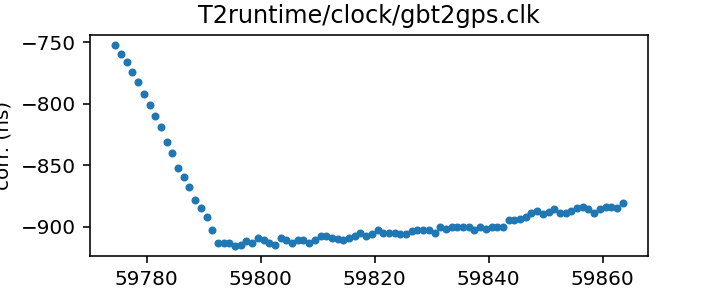
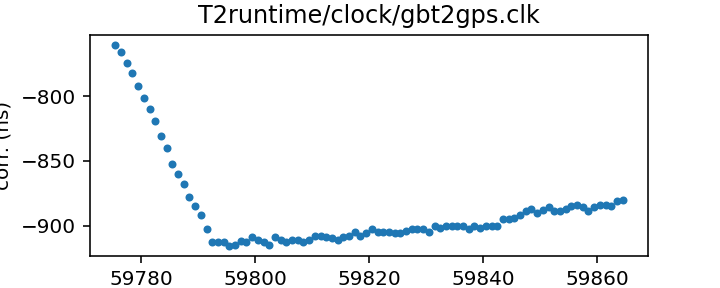
Routine gh-pages update from Github action Thu Oct 13 20:43:05 UTC 2022

diff --git a/status.md b/status.md
@@ -13,17 +13,17 @@ name of each clock file links to a page with more details.
 
 | Name | File | Corrections start | Corrections end | Last check date | Last check result 
 |:--- |:--- | --- | --- | --- |:--- 
-| [GPS to UTC](T2runtime/clock/gps2utc.clk.html) | `T2runtime/clock/gps2utc.clk` | 1993-01-01 MJD 48988.0 | 2022-09-27 MJD 59849.0 | 2022-10-12 | Unchanged 
-| [GPS to UTC (Combined Clock)](T2runtime/clock/gps2utc_cc.clk.html) | `T2runtime/clock/gps2utc_cc.clk` | 1993-01-01 MJD 48988.0 | 2022-09-27 MJD 59849.0 | 2022-10-12 | Unchanged 
-| [GPS to UTC (Corrected)](T2runtime/clock/gps2utc_c0p.clk.html) | `T2runtime/clock/gps2utc_c0p.clk` | 2010-12-29 MJD 55559.0 | 2022-09-27 MJD 59849.0 | 2022-10-12 | Unchanged 
-| [GBT](tempo/clock/time_gbt.dat.html) | `tempo/clock/time_gbt.dat` | 2000-12-31 MJD 51909.5 | 2022-10-11 MJD 59863.5 | 2022-10-12 | Updated 
-| [GBT (TEMPO2 converted from TEMPO)](T2runtime/clock/gbt2gps.clk.html) | `T2runtime/clock/gbt2gps.clk` | 2000-12-31 MJD 51909.5 | 2022-10-11 MJD 59863.5 | 2022-10-12 | Updated 
+| [GPS to UTC](T2runtime/clock/gps2utc.clk.html) | `T2runtime/clock/gps2utc.clk` | 1993-01-01 MJD 48988.0 | 2022-09-27 MJD 59849.0 | 2022-10-13 | Unchanged 
+| [GPS to UTC (Combined Clock)](T2runtime/clock/gps2utc_cc.clk.html) | `T2runtime/clock/gps2utc_cc.clk` | 1993-01-01 MJD 48988.0 | 2022-09-27 MJD 59849.0 | 2022-10-13 | Unchanged 
+| [GPS to UTC (Corrected)](T2runtime/clock/gps2utc_c0p.clk.html) | `T2runtime/clock/gps2utc_c0p.clk` | 2010-12-29 MJD 55559.0 | 2022-09-27 MJD 59849.0 | 2022-10-13 | Unchanged 
+| [GBT](tempo/clock/time_gbt.dat.html) | `tempo/clock/time_gbt.dat` | 2000-12-31 MJD 51909.5 | 2022-10-12 MJD 59864.5 | 2022-10-13 | Updated 
+| [GBT (TEMPO2 converted from TEMPO)](T2runtime/clock/gbt2gps.clk.html) | `T2runtime/clock/gbt2gps.clk` | 2000-12-31 MJD 51909.5 | 2022-10-12 MJD 59864.5 | 2022-10-13 | Updated 
 | [Jodrell Bank](T2runtime/clock/jb2gps.clk.html) | `T2runtime/clock/jb2gps.clk` | 2006-10-13 MJD 54021.4 | 2021-11-03 MJD 59521.0 | 2022-10-12 | Unchanged 
 | [Jodrell Bank Roach](T2runtime/clock/jbroach2jb.clk.html) | `T2runtime/clock/jbroach2jb.clk` | 2006-10-13 MJD 54021.4 | 2018-03-20 MJD 58197.6 | 2022-10-12 | Unchanged 
 | [Jodrell Bank DFB](T2runtime/clock/jbdfb2jb.clk.html) | `T2runtime/clock/jbdfb2jb.clk` | 2006-10-13 MJD 54021.4 | 2017-05-11 MJD 57884.0 | 2022-10-12 | Unchanged 
 | [Meerkat (observatory)](T2runtime/clock/mk2utc_observatory.clk.html) | `T2runtime/clock/mk2utc_observatory.clk` | 2019-01-01 MJD 58484.0 | 2022-09-21 MJD 59844.0 | 2022-10-10 | Updated 
-| [Leap seconds](tempo/clock/leap.sec.html) | `tempo/clock/leap.sec` | 1972-07-01 MJD 41499.0 | 2017-01-01 MJD 57754.0 | 2022-10-12 | Unchanged 
-| [UT1 table](tempo/clock/ut1.dat.html) | `tempo/clock/ut1.dat` | 1973-01-02 MJD 41684.0 | 2023-10-14 MJD 60231.0 | 2022-10-12 | Unchanged 
+| [Leap seconds](tempo/clock/leap.sec.html) | `tempo/clock/leap.sec` | 1972-07-01 MJD 41499.0 | 2017-01-01 MJD 57754.0 | 2022-10-13 | Unchanged 
+| [UT1 table](tempo/clock/ut1.dat.html) | `tempo/clock/ut1.dat` | 1973-01-02 MJD 41684.0 | 2023-10-21 MJD 60238.0 | 2022-10-13 | Updated 
 
 
 
@@ -63,21 +63,21 @@ name of each clock file links to a page with more details.
 
 | Name | File | Corrections start | Corrections end | Last check date | Last check result 
 |:--- |:--- | --- | --- | --- |:--- 
-| [GPS to UTC (TEMPO2)](T2runtime/clock/gps2utc_tempo2.clk.html) | `T2runtime/clock/gps2utc_tempo2.clk` | 1996-03-27 MJD 50169.0 | 2020-10-27 MJD 59149.0 | 2022-10-06 | Unchanged 
+| [GPS to UTC (TEMPO2)](T2runtime/clock/gps2utc_tempo2.clk.html) | `T2runtime/clock/gps2utc_tempo2.clk` | 1996-03-27 MJD 50169.0 | 2020-10-27 MJD 59149.0 | 2022-10-13 | Unchanged 
 | [GBT (TEMPO2)](T2runtime/clock/gbt2gps_tempo2.clk.html) | `T2runtime/clock/gbt2gps_tempo2.clk` | 2000-12-31 MJD 51909.5 | 2020-02-25 MJD 58904.5 | 2022-10-10 | Unchanged 
-| [Jodrell Bank (TEMPO)](tempo/clock/time_jb.dat.html) | `tempo/clock/time_jb.dat` | 2006-10-13 MJD 54021.4 | 2019-05-13 MJD 58616.2 | 2022-10-06 | Unchanged 
-| [VLA](tempo/clock/time_vla.dat.html) | `tempo/clock/time_vla.dat` | 1990-10-27 MJD 48191.2 | 2021-03-07 MJD 59280.5 | 2022-10-06 | **Failed to download** 
+| [Jodrell Bank (TEMPO)](tempo/clock/time_jb.dat.html) | `tempo/clock/time_jb.dat` | 2006-10-13 MJD 54021.4 | 2019-05-13 MJD 58616.2 | 2022-10-13 | Unchanged 
+| [VLA](tempo/clock/time_vla.dat.html) | `tempo/clock/time_vla.dat` | 1990-10-27 MJD 48191.2 | 2021-03-07 MJD 59280.5 | 2022-10-13 | **Failed to download** 
 | [VLA (TEMPO2)](T2runtime/clock/vla2gps.clk.html) | `T2runtime/clock/vla2gps.clk` | 2015-02-01 MJD 57054.6 | 2021-03-07 MJD 59280.5 | 2022-10-12 | Unchanged 
 | [VLA to NIST](T2runtime/clock/vla2nist.clk.html) | `T2runtime/clock/vla2nist.clk` | 1990-10-27 MJD 48191.2 | 1993-11-13 MJD 49304.0 | 2022-10-12 | Unchanged 
-| [FAST](tempo/clock/time_fast.dat.html) | `tempo/clock/time_fast.dat` | 2017-07-26 MJD 57960.4 | 2019-09-18 MJD 58744.0 | 2022-10-06 | **Failed to download** 
-| [WSRT](T2runtime/clock/wsrt2gps.clk.html) | `T2runtime/clock/wsrt2gps.clk` | 1999-01-01 MJD 51179.5 | 2015-06-29 MJD 57202.1 | 2022-10-06 | Unchanged 
-| [WSRT (TEMPO)](tempo/clock/time_wsrt.dat.html) | `tempo/clock/time_wsrt.dat` | 1987-07-24 MJD 47000.0 | 2007-12-24 MJD 54458.0 | 2022-10-06 | **Validation failed** 
+| [FAST](tempo/clock/time_fast.dat.html) | `tempo/clock/time_fast.dat` | 2017-07-26 MJD 57960.4 | 2019-09-18 MJD 58744.0 | 2022-10-13 | **Failed to download** 
+| [WSRT](T2runtime/clock/wsrt2gps.clk.html) | `T2runtime/clock/wsrt2gps.clk` | 1999-01-01 MJD 51179.5 | 2015-06-29 MJD 57202.1 | 2022-10-13 | Unchanged 
+| [WSRT (TEMPO)](tempo/clock/time_wsrt.dat.html) | `tempo/clock/time_wsrt.dat` | 1987-07-24 MJD 47000.0 | 2007-12-24 MJD 54458.0 | 2022-10-13 | **Validation failed** 
 | [Parkes](T2runtime/clock/pks2gps.clk.html) | `T2runtime/clock/pks2gps.clk` | 1858-11-17 MJD 0.0 | 2019-07-31 MJD 58695.4 | 2022-10-12 | Unchanged 
-| [Parkes (TEMPO)](tempo/clock/time_pks.dat.html) | `tempo/clock/time_pks.dat` | 1979-05-07 MJD 44000.0 | 2011-07-03 MJD 55745.8 | 2022-10-06 | **Validation failed** 
+| [Parkes (TEMPO)](tempo/clock/time_pks.dat.html) | `tempo/clock/time_pks.dat` | 1979-05-07 MJD 44000.0 | 2011-07-03 MJD 55745.8 | 2022-10-13 | **Validation failed** 
 | [SRT](T2runtime/clock/srt2gps.clk.html) | `T2runtime/clock/srt2gps.clk` | 2013-03-20 MJD 56371.0 | 2019-12-11 MJD 58828.0 | 2022-10-12 | Unchanged 
 | [Effelsberg](T2runtime/clock/eff2gps.clk.html) | `T2runtime/clock/eff2gps.clk` | 1993-11-29 MJD 49320.0 | 2015-06-22 MJD 57195.5 | 2022-10-12 | Unchanged 
 | [Effelsberg Asterix/PSRix](T2runtime/clock/effix2gps.clk.html) | `T2runtime/clock/effix2gps.clk` | 2011-01-01 MJD 55562.5 | 2021-03-21 MJD 59294.5 | 2022-10-12 | Unchanged 
-| [NUPPI](tempo/clock/time_nuppi.dat.html) | `tempo/clock/time_nuppi.dat` | 2005-03-07 MJD 53436.0 | 2015-11-08 MJD 57334.6 | 2022-10-06 | Unchanged 
+| [NUPPI](tempo/clock/time_nuppi.dat.html) | `tempo/clock/time_nuppi.dat` | 2005-03-07 MJD 53436.0 | 2015-11-08 MJD 57334.6 | 2022-10-13 | Unchanged 
 | [Meerkat (TEMPO2)](T2runtime/clock/mk2utc.clk.html) | `T2runtime/clock/mk2utc.clk` | 2019-01-01 MJD 58484.0 | 2021-02-22 MJD 59268.0 | 2022-10-12 | Unchanged 
 | [MOST](T2runtime/clock/mo2gps.clk.html) | `T2runtime/clock/mo2gps.clk` | 2003-12-27 MJD 53000.0 | 2018-09-06 MJD 58367.0 | 2022-10-12 | Unchanged 
 | [Nancay to obspm](T2runtime/clock/ncyobs2obspm.clk.html) | `T2runtime/clock/ncyobs2obspm.clk` | 1988-05-18 MJD 47299.6 | 2021-11-01 MJD 59519.6 | 2022-10-12 | Unchanged 

diff --git a/tempo/clock/time_pks.dat.md b/tempo/clock/time_pks.dat.md
@@ -19,12 +19,11 @@ in the same file, distinguished only by observatory code.
 | Clock file start | 1979-05-07 MJD 44000.0 |
 | Clock file end | 2011-07-03 MJD 55745.8 |
 | Update interval (days) | 7 |
-| Last update attempt | 2022-10-06 |
+| Last update attempt | 2022-10-13 |
 | Last update result | Validation failed |
 
 Log entries from the last few update attempts:
 ```
-2022-08-04 20:34:41.857 - Validation failed: Unable to read new version of tempo/clock/time_pks.dat: Clock file /tmp/astropy-download-1668-z0equg7z appears to be out of order
 2022-08-11 20:33:40.663 - Validation failed: Unable to read new version of tempo/clock/time_pks.dat: Clock file /tmp/astropy-download-1654-kb8uhgqd appears to be out of order
 2022-08-18 20:36:52.446 - Validation failed: Unable to read new version of tempo/clock/time_pks.dat: Clock file /tmp/astropy-download-1707-2tdw70nb appears to be out of order
 2022-08-25 20:34:57.712 - Validation failed: Unable to read new version of tempo/clock/time_pks.dat: Clock file /tmp/astropy-download-1692-lv4itl02 appears to be out of order
@@ -34,6 +33,7 @@ Log entries from the last few update attempts:
 2022-09-22 20:39:27.672 - Validation failed: Unable to read new version of tempo/clock/time_pks.dat: Clock file /tmp/astropy-download-1731-md2w727v appears to be out of order
 2022-09-29 20:43:08.532 - Validation failed: Unable to read new version of tempo/clock/time_pks.dat: Clock file /tmp/astropy-download-1670-yxq_zqy5 appears to be out of order
 2022-10-06 20:41:55.213 - Validation failed: Unable to read new version of tempo/clock/time_pks.dat: Clock file /tmp/astropy-download-1835-pho_7rq0 appears to be out of order
+2022-10-13 20:42:39.419 - Validation failed: Unable to read new version of tempo/clock/time_pks.dat: Clock file /tmp/astropy-download-1866-tj60jprm appears to be out of order
 ```
 [Full log](https://raw.githubusercontent.com/ipta/pulsar-clock-corrections/main/log/tempo/clock/time_pks.dat.log)
 

diff --git a/tempo/clock/time_wsrt.dat.md b/tempo/clock/time_wsrt.dat.md
@@ -19,12 +19,11 @@ should be the same information.
 | Clock file start | 1987-07-24 MJD 47000.0 |
 | Clock file end | 2007-12-24 MJD 54458.0 |
 | Update interval (days) | 7 |
-| Last update attempt | 2022-10-06 |
+| Last update attempt | 2022-10-13 |
 | Last update result | Validation failed |
 
 Log entries from the last few update attempts:
 ```
-2022-08-04 20:34:40.942 - Validation failed: Unable to read new version of tempo/clock/time_wsrt.dat: Clock file /tmp/astropy-download-1668-scc6b50b appears to be out of order
 2022-08-11 20:33:40.256 - Validation failed: Unable to read new version of tempo/clock/time_wsrt.dat: Clock file /tmp/astropy-download-1654-l2sd24rf appears to be out of order
 2022-08-18 20:36:51.805 - Validation failed: Unable to read new version of tempo/clock/time_wsrt.dat: Clock file /tmp/astropy-download-1707-xtq_0u1k appears to be out of order
 2022-08-25 20:34:57.286 - Validation failed: Unable to read new version of tempo/clock/time_wsrt.dat: Clock file /tmp/astropy-download-1692-30kr9mtu appears to be out of order
@@ -34,6 +33,7 @@ Log entries from the last few update attempts:
 2022-09-22 20:39:27.254 - Validation failed: Unable to read new version of tempo/clock/time_wsrt.dat: Clock file /tmp/astropy-download-1731-9z7agicr appears to be out of order
 2022-09-29 20:43:08.152 - Validation failed: Unable to read new version of tempo/clock/time_wsrt.dat: Clock file /tmp/astropy-download-1670-r1ox93xv appears to be out of order
 2022-10-06 20:41:54.543 - Validation failed: Unable to read new version of tempo/clock/time_wsrt.dat: Clock file /tmp/astropy-download-1835-gtjyjp4z appears to be out of order
+2022-10-13 20:42:38.566 - Validation failed: Unable to read new version of tempo/clock/time_wsrt.dat: Clock file /tmp/astropy-download-1866-b4aq0tiw appears to be out of order
 ```
 [Full log](https://raw.githubusercontent.com/ipta/pulsar-clock-corrections/main/log/tempo/clock/time_wsrt.dat.log)
 

diff --git a/T2runtime/clock/gbt2gps.clk.md b/T2runtime/clock/gbt2gps.clk.md
@@ -23,14 +23,13 @@ If questions arise about the conversion, contact Anne Archibald
 | Format | tempo2 |
 | Bogus last correction | False |
 | Clock file start | 2000-12-31 MJD 51909.5 |
-| Clock file end | 2022-10-11 MJD 59863.5 |
+| Clock file end | 2022-10-12 MJD 59864.5 |
 | Update interval (days) | 1 |
-| Last update attempt | 2022-10-12 |
+| Last update attempt | 2022-10-13 |
 | Last update result | Updated |
 
 Log entries from the last few update attempts:
 ```
-2022-10-03 20:42:12.939 - Updated
 2022-10-04 20:43:59.417 - Updated
 2022-10-05 20:42:13.766 - Updated
 2022-10-06 20:41:51.390 - Updated
@@ -40,12 +39,13 @@ Log entries from the last few update attempts:
 2022-10-10 20:41:53.295 - Updated
 2022-10-11 20:43:28.314 - Updated
 2022-10-12 20:43:13.750 - Updated
+2022-10-13 20:42:36.560 - Updated
 ```
 [Full log](https://raw.githubusercontent.com/ipta/pulsar-clock-corrections/main/log/T2runtime/clock/gbt2gps.clk.log)
 
 Leading comments from clock file:
 
-    # This file was automatically converted from tempo/clock/time_gbt.dat on 2022-10-12 20:43:13.652
+    # This file was automatically converted from tempo/clock/time_gbt.dat on 2022-10-13 20:42:36.490
 
 
 

diff --git a/tempo/clock/time_vla.dat.md b/tempo/clock/time_vla.dat.md
@@ -17,12 +17,11 @@ This file is pulled from the PINT repository and may not be fully up-to-date.
 | Clock file start | 1990-10-27 MJD 48191.2 |
 | Clock file end | 2021-03-07 MJD 59280.5 |
 | Update interval (days) | 7 |
-| Last update attempt | 2022-10-06 |
+| Last update attempt | 2022-10-13 |
 | Last update result | Failed to download |
 
 Log entries from the last few update attempts:
 ```
-2022-08-04 20:34:40.227 - Failed to download: HTTP Error 404: Not Found
 2022-08-11 20:33:39.364 - Failed to download: HTTP Error 404: Not Found
 2022-08-18 20:36:50.640 - Failed to download: HTTP Error 404: Not Found
 2022-08-25 20:34:56.643 - Failed to download: HTTP Error 404: Not Found
@@ -32,6 +31,7 @@ Log entries from the last few update attempts:
 2022-09-22 20:39:26.359 - Failed to download: HTTP Error 404: Not Found
 2022-09-29 20:43:07.208 - Failed to download: HTTP Error 404: Not Found
 2022-10-06 20:41:52.923 - Failed to download: HTTP Error 404: Not Found
+2022-10-13 20:42:37.999 - Failed to download: HTTP Error 404: Not Found
 ```
 [Full log](https://raw.githubusercontent.com/ipta/pulsar-clock-corrections/main/log/tempo/clock/time_vla.dat.log)
 

diff --git a/tempo/clock/time_fast.dat.md b/tempo/clock/time_fast.dat.md
@@ -24,12 +24,11 @@ to contact is 缪晨晨 <miaocc@bao.ac.cn>, Chenchen Miao.
 | Clock file start | 2017-07-26 MJD 57960.4 |
 | Clock file end | 2019-09-18 MJD 58744.0 |
 | Update interval (days) | 7 |
-| Last update attempt | 2022-10-06 |
+| Last update attempt | 2022-10-13 |
 | Last update result | Failed to download |
 
 Log entries from the last few update attempts:
 ```
-2022-08-04 20:34:40.348 - Failed to download: HTTP Error 404: Not Found
 2022-08-11 20:33:39.507 - Failed to download: HTTP Error 404: Not Found
 2022-08-18 20:36:50.783 - Failed to download: HTTP Error 404: Not Found
 2022-08-25 20:34:56.745 - Failed to download: HTTP Error 404: Not Found
@@ -39,6 +38,7 @@ Log entries from the last few update attempts:
 2022-09-22 20:39:26.512 - Failed to download: HTTP Error 404: Not Found
 2022-09-29 20:43:07.428 - Failed to download: HTTP Error 404: Not Found
 2022-10-06 20:41:53.004 - Failed to download: HTTP Error 404: Not Found
+2022-10-13 20:42:38.077 - Failed to download: HTTP Error 404: Not Found
 ```
 [Full log](https://raw.githubusercontent.com/ipta/pulsar-clock-corrections/main/log/tempo/clock/time_fast.dat.log)
 

diff --git a/tempo/clock/ut1.dat.md b/tempo/clock/ut1.dat.md
@@ -28,14 +28,13 @@ If there are any questions, contact Anne Archibald
 | File | `tempo/clock/ut1.dat` |
 | Authority | observatory |
 | File start | 1973-01-02 MJD 41684.0 |
-| File end | 2023-10-14 MJD 60231.0 |
+| File end | 2023-10-21 MJD 60238.0 |
 | Update interval (days) | 0 |
-| Last update attempt | 2022-10-12 |
-| Last update result | Unchanged |
+| Last update attempt | 2022-10-13 |
+| Last update result | Updated |
 
 Log entries from the last few update attempts:
 ```
-2022-10-03 20:42:32.045 - Unchanged
 2022-10-04 20:44:07.154 - Unchanged
 2022-10-05 20:42:33.854 - Unchanged
 2022-10-06 20:42:03.973 - Updated
@@ -45,5 +44,6 @@ Log entries from the last few update attempts:
 2022-10-10 20:42:07.870 - Unchanged
 2022-10-11 20:43:36.466 - Unchanged
 2022-10-12 20:43:33.565 - Unchanged
+2022-10-13 20:42:47.532 - Updated
 ```
 [Full log](https://raw.githubusercontent.com/ipta/pulsar-clock-corrections/main/log/tempo/clock/ut1.dat.log)

diff --git a/tempo/clock/time_gbt.dat.md b/tempo/clock/time_gbt.dat.md
@@ -18,14 +18,13 @@ If questions arise, contact Ryan S. Lynch <rlynch@nrao.edu>.
 | Format | tempo |
 | Bogus last correction | False |
 | Clock file start | 2000-12-31 MJD 51909.5 |
-| Clock file end | 2022-10-11 MJD 59863.5 |
+| Clock file end | 2022-10-12 MJD 59864.5 |
 | Update interval (days) | 1 |
-| Last update attempt | 2022-10-12 |
+| Last update attempt | 2022-10-13 |
 | Last update result | Updated |
 
 Log entries from the last few update attempts:
 ```
-2022-10-03 20:42:12.682 - Updated
 2022-10-04 20:43:59.322 - Updated
 2022-10-05 20:42:13.674 - Updated
 2022-10-06 20:41:51.320 - Updated
@@ -35,6 +34,7 @@ Log entries from the last few update attempts:
 2022-10-10 20:41:52.818 - Updated
 2022-10-11 20:43:28.245 - Updated
 2022-10-12 20:43:13.648 - Updated
+2022-10-13 20:42:36.488 - Updated
 ```
 [Full log](https://raw.githubusercontent.com/ipta/pulsar-clock-corrections/main/log/tempo/clock/time_gbt.dat.log)
 

diff --git a/T2runtime/clock/wsrt2gps.clk.md b/T2runtime/clock/wsrt2gps.clk.md
@@ -16,12 +16,11 @@ This file is pulled from the TEMPO2 repository and may not be fully up-to-date.
 | Clock file start | 1999-01-01 MJD 51179.5 |
 | Clock file end | 2015-06-29 MJD 57202.1 |
 | Update interval (days) | 7 |
-| Last update attempt | 2022-10-06 |
+| Last update attempt | 2022-10-13 |
 | Last update result | Unchanged |
 
 Log entries from the last few update attempts:
 ```
-2022-08-04 20:34:40.580 - Unchanged
 2022-08-11 20:33:39.902 - Unchanged
 2022-08-18 20:36:51.187 - Unchanged
 2022-08-25 20:34:56.963 - Unchanged
@@ -31,6 +30,7 @@ Log entries from the last few update attempts:
 2022-09-22 20:39:26.925 - Unchanged
 2022-09-29 20:43:07.902 - Unchanged
 2022-10-06 20:41:53.457 - Unchanged
+2022-10-13 20:42:38.199 - Unchanged
 ```
 [Full log](https://raw.githubusercontent.com/ipta/pulsar-clock-corrections/main/log/T2runtime/clock/wsrt2gps.clk.log)
 

diff --git a/tempo/clock/time_nuppi.dat.md b/tempo/clock/time_nuppi.dat.md
@@ -16,12 +16,11 @@ This file is pulled from the TEMPO repository and may not be fully up-to-date.
 | Clock file start | 2005-03-07 MJD 53436.0 |
 | Clock file end | 2015-11-08 MJD 57334.6 |
 | Update interval (days) | 7 |
-| Last update attempt | 2022-10-06 |
+| Last update attempt | 2022-10-13 |
 | Last update result | Unchanged |
 
 Log entries from the last few update attempts:
 ```
-2022-08-04 20:34:42.236 - Unchanged
 2022-08-11 20:33:42.484 - Unchanged
 2022-08-18 20:36:52.807 - Unchanged
 2022-08-25 20:34:58.224 - Unchanged
@@ -31,6 +30,7 @@ Log entries from the last few update attempts:
 2022-09-22 20:39:27.986 - Unchanged
 2022-09-29 20:43:08.835 - Unchanged
 2022-10-06 20:41:55.702 - Unchanged
+2022-10-13 20:42:40.193 - Unchanged
 ```
 [Full log](https://raw.githubusercontent.com/ipta/pulsar-clock-corrections/main/log/tempo/clock/time_nuppi.dat.log)
 

diff --git a/tempo/clock/time_jb.dat.md b/tempo/clock/time_jb.dat.md
@@ -16,12 +16,11 @@ This file is pulled from the TEMPO repository and may not be fully up-to-date.
 | Clock file start | 2006-10-13 MJD 54021.4 |
 | Clock file end | 2019-05-13 MJD 58616.2 |
 | Update interval (days) | 7 |
-| Last update attempt | 2022-10-06 |
+| Last update attempt | 2022-10-13 |
 | Last update result | Unchanged |
 
 Log entries from the last few update attempts:
 ```
-2022-08-04 20:34:40.130 - Unchanged
 2022-08-11 20:33:39.197 - Unchanged
 2022-08-18 20:36:50.475 - Unchanged
 2022-08-25 20:34:56.560 - Unchanged
@@ -31,6 +30,7 @@ Log entries from the last few update attempts:
 2022-09-22 20:39:26.199 - Unchanged
 2022-09-29 20:43:06.998 - Unchanged
 2022-10-06 20:41:52.811 - Unchanged
+2022-10-13 20:42:37.893 - Unchanged
 ```
 [Full log](https://raw.githubusercontent.com/ipta/pulsar-clock-corrections/main/log/tempo/clock/time_jb.dat.log)
 

diff --git a/T2runtime/clock/gps2utc_c0p.clk.md b/T2runtime/clock/gps2utc_c0p.clk.md
@@ -30,12 +30,11 @@ about the BIPM's published corrections, contact <tai@bipm.org>.
 | Clock file start | 2010-12-29 MJD 55559.0 |
 | Clock file end | 2022-09-27 MJD 59849.0 |
 | Update interval (days) | 1 |
-| Last update attempt | 2022-10-12 |
+| Last update attempt | 2022-10-13 |
 | Last update result | Unchanged |
 
 Log entries from the last few update attempts:
 ```
-2022-10-03 20:42:12.295 - Unchanged
 2022-10-04 20:43:58.684 - Unchanged
 2022-10-05 20:42:12.788 - Unchanged
 2022-10-06 20:41:50.814 - Unchanged
@@ -45,6 +44,7 @@ Log entries from the last few update attempts:
 2022-10-10 20:41:52.081 - Unchanged
 2022-10-11 20:43:27.794 - Updated
 2022-10-12 20:43:12.700 - Unchanged
+2022-10-13 20:42:35.977 - Unchanged
 ```
 [Full log](https://raw.githubusercontent.com/ipta/pulsar-clock-corrections/main/log/T2runtime/clock/gps2utc_c0p.clk.log)
 
